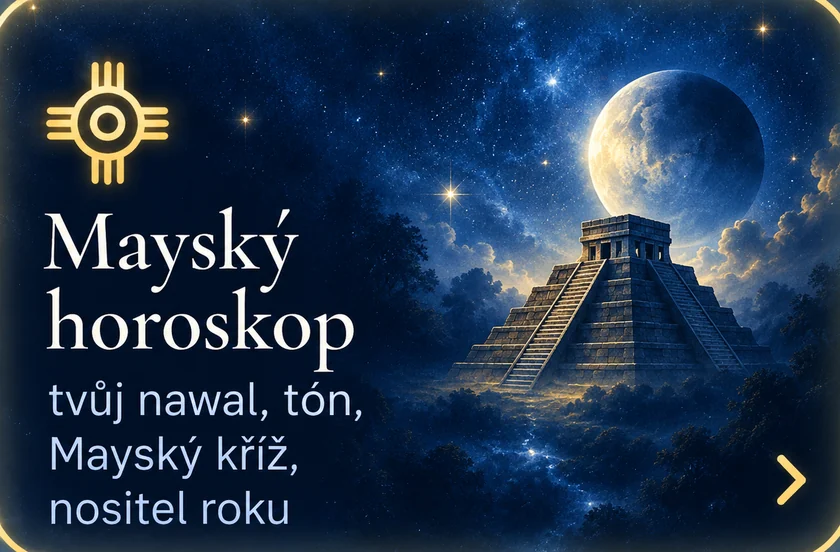
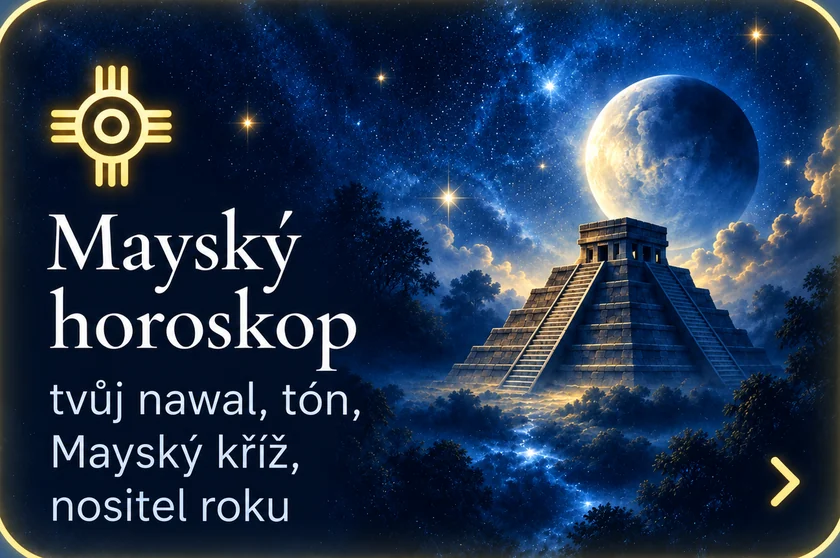
Karty Maysky a Cinsky horoskop ve stejnem pomeru jako ostatni + SW v365

diff --git a/sw.js b/sw.js
@@ -1,6 +1,6 @@
 /* Kairos – service worker. Při každé změně index.html zvedni číslo verze. */
-const CACHE = 'kairos-v364';
-const SHELL = ['./', './index.html', './styles.css?v=364', './kairos-core.js?v=364', './data.js?v=364', './app.js?v=364', './astronomy.browser.min.js', './manifest.webmanifest', './logo.png', './logo-emblem.webp?v=1', './cyklus-dne.webp?v=1', './cat-vse.webp?v=2', './cat-portal.webp?v=2', './cat-osobni.webp?v=2', './cat-priroda.webp?v=2', './cat-zatmeni.webp?v=2', './cat-luna.webp?v=2', './cat-planety.webp?v=2', './cat-hvezdy.webp?v=2', './cat-roje.webp?v=2', './cat-slunce.webp?v=2', './cat-komety.webp?v=2', './tile-mapa.webp?v=8', './tile-prochazis.webp?v=8', './tile-vztahy.webp?v=8', './tile-horoskop.webp?v=8', './tile-cisla.webp?v=8', './tile-cakra.webp?v=8', './tile-navraty.webp?v=8', './tile-hvezdy.webp?v=8', './tile-maya.webp?v=8', './tile-cina.webp?v=8', './logo-stars.webp?v=1', './moon-tex.png?v=1', './icon-192.png', './icon-512.png', './icon-maskable-512.png', './sky-day.webp?v=7', './sky-night.webp?v=4', './sky-night-hd2.webp?v=1', './sky-day-hd2.webp?v=1'];
+const CACHE = 'kairos-v365';
+const SHELL = ['./', './index.html', './styles.css?v=365', './kairos-core.js?v=365', './data.js?v=365', './app.js?v=365', './astronomy.browser.min.js', './manifest.webmanifest', './logo.png', './logo-emblem.webp?v=1', './cyklus-dne.webp?v=1', './cat-vse.webp?v=2', './cat-portal.webp?v=2', './cat-osobni.webp?v=2', './cat-priroda.webp?v=2', './cat-zatmeni.webp?v=2', './cat-luna.webp?v=2', './cat-planety.webp?v=2', './cat-hvezdy.webp?v=2', './cat-roje.webp?v=2', './cat-slunce.webp?v=2', './cat-komety.webp?v=2', './tile-mapa.webp?v=9', './tile-prochazis.webp?v=9', './tile-vztahy.webp?v=9', './tile-horoskop.webp?v=9', './tile-cisla.webp?v=9', './tile-cakra.webp?v=9', './tile-navraty.webp?v=9', './tile-hvezdy.webp?v=9', './tile-maya.webp?v=9', './tile-cina.webp?v=9', './logo-stars.webp?v=1', './moon-tex.png?v=1', './icon-192.png', './icon-512.png', './icon-maskable-512.png', './sky-day.webp?v=7', './sky-night.webp?v=4', './sky-night-hd2.webp?v=1', './sky-day-hd2.webp?v=1'];
 
 self.addEventListener('install', (e) => {
   e.waitUntil(caches.open(CACHE).then((c) => c.addAll(SHELL.map((u) => new Request(u, { cache: 'reload' })))).then(() => self.skipWaiting()));

diff --git a/app.js b/app.js
@@ -1,6 +1,6 @@
 (function () {
   'use strict';
-  const VERSION = 'v364';
+  const VERSION = 'v365';
   const A = Astronomy;
   const K = createKairosEngine(A);
   const TX = createKairosTexts(K);
@@ -3717,7 +3717,7 @@ ${parts}
     ].filter(t => t[0] !== 'cisla' || settings.numerology !== false);
     if (view === 'menu') {
       const arcS = arcSentence();
-      v.innerHTML = natalHead + (arcS ? `<p class="nnow"><span class="tvlab">tvůj den</span>${esc(arcS)}</p>` : '') + `<div class="ntiles">${TILES.map(([id, ic, t, sub, kind, noimg]) => noimg ? `<button type="button" class="ntile txt ${kind || ''}" data-act="natalView" data-v="${id}"><span class="ic">${ic}</span><b>${t}</b><small>${sub}</small><span class="chev">›</span></button>` : `<button type="button" class="ntile img ${kind || ''}" data-act="natalView" data-v="${id}" aria-label="${t} — ${sub}"><img src="tile-${id}.webp?v=8" alt="" width="420" height="317"></button>`).join('')}</div>`+ `<p class="note astrolink"><button type="button" class="linkbtn" data-act="natalView" data-v="efemeridy">Podrobnosti — pro astrologa: Efemeridy ›</button></p>`;
+      v.innerHTML = natalHead + (arcS ? `<p class="nnow"><span class="tvlab">tvůj den</span>${esc(arcS)}</p>` : '') + `<div class="ntiles">${TILES.map(([id, ic, t, sub, kind, noimg]) => noimg ? `<button type="button" class="ntile txt ${kind || ''}" data-act="natalView" data-v="${id}"><span class="ic">${ic}</span><b>${t}</b><small>${sub}</small><span class="chev">›</span></button>` : `<button type="button" class="ntile img ${kind || ''}" data-act="natalView" data-v="${id}" aria-label="${t} — ${sub}"><img src="tile-${id}.webp?v=9" alt="" width="420" height="317"></button>`).join('')}</div>`+ `<p class="note astrolink"><button type="button" class="linkbtn" data-act="natalView" data-v="efemeridy">Podrobnosti — pro astrologa: Efemeridy ›</button></p>`;
       return;
     }
     const tile = TILES.find(t => t[0] === view) || (view === 'efemeridy' ? ['efemeridy', '≡', 'Efemeridy', ''] : view === 'smerClose' ? ['smer', '➶', 'Sklizeň', ''] : TILES[0]);

diff --git a/index.html b/index.html
@@ -25,7 +25,7 @@ var mt=document.querySelector('meta[name=theme-color]');if(mt)mt.setAttribute('c
 <link rel="preconnect" href="https://fonts.googleapis.com">
 <link rel="preconnect" href="https://fonts.gstatic.com" crossorigin>
 <link rel="stylesheet" href="https://fonts.googleapis.com/css2?family=Cormorant+Garamond:ital,wght@0,500;0,600;1,500&family=IBM+Plex+Sans:wght@400;500;600&family=IBM+Plex+Mono:wght@400;500&display=swap">
-<link rel="stylesheet" href="styles.css?v=364">
+<link rel="stylesheet" href="styles.css?v=365">
 </head>
 <body>
 <div id="splash" aria-hidden="true"><img class="sp-em" src="logo-emblem.webp?v=1" alt=""><span class="bname"><i class="l1"><b>NEBESKÝ</b></i><i class="l2"><b>KOMPAS</b></i></span><img class="sp-st" src="logo-stars.webp?v=1" alt=""><span class="claim sp-cl"><i>tvůj</i><i class="mid">hvězdný</i><i class="big">kalendář</i></span></div>
@@ -55,8 +55,8 @@ var mt=document.querySelector('meta[name=theme-color]');if(mt)mt.setAttribute('c
 <button type="button" class="backbtn" id="backBtn" aria-label="Zpět, odkud jsi přišel">‹ Zpět</button>
 <div class="upbar" id="upbar" role="status"><span><b>Nová verze je připravená</b>Obnov a máš ji hned.</span><button type="button" id="upGo">Obnovit</button><button type="button" class="upx" id="upX" aria-label="Zavřít">×</button></div>
 <script src="astronomy.browser.min.js"></script>
-<script src="kairos-core.js?v=364"></script>
-<script src="data.js?v=364"></script>
-<script src="app.js?v=364"></script>
+<script src="kairos-core.js?v=365"></script>
+<script src="data.js?v=365"></script>
+<script src="app.js?v=365"></script>
 </body>
 </html>
